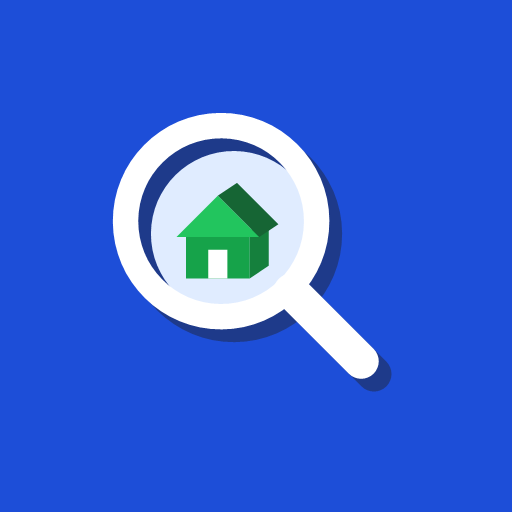
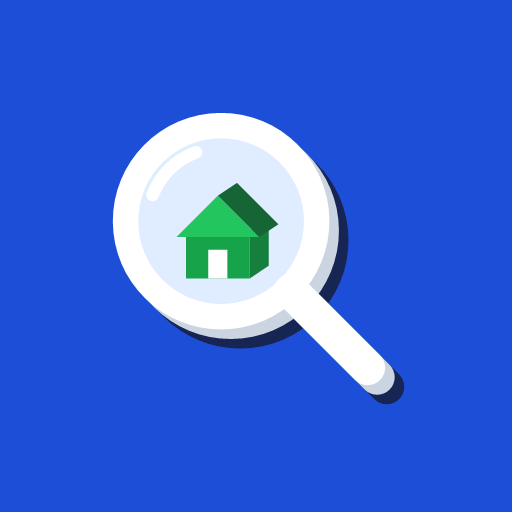
Ícone com fundo azul e lupa branca em 3D (versão 2.2)
- Ícones do aplicativo na variante C: fundo azul, lupa branca com dupla
  camada de profundidade (lateral cinza e sombra azul-escura)
- Nome LAUDAR dentro do ícone apenas na versão grande (512 px, usada na
  tela de abertura e na instalação); ícones menores só com a lupa
- Fundo da tela de abertura em azul, combinando com o ícone
- Cache do service worker v5, para os aparelhos receberem os ícones
- Teste de atualização: dados criados na 2.1 mantidos na 2.2

Backup da versão anterior: tag v2.1

diff --git a/sw.js b/sw.js
@@ -5,7 +5,7 @@
 // - Bibliotecas, ícones e manifesto: usa a cópia guardada; só busca na internet se faltar.
 //
 // Ao trocar bibliotecas ou ícones, aumente VERSAO para que os aparelhos baixem os arquivos novos.
-const VERSAO = 'v4';
+const VERSAO = 'v5';
 const CACHE = `vistoria-${VERSAO}`;
 const ARQUIVOS = [
   './',

diff --git a/index.html b/index.html
@@ -910,7 +910,7 @@ async function rotear() {
 window.addEventListener('hashchange', rotear);
 
 // ---------- Telas ----------
-const VERSAO_APP = '2.1';
+const VERSAO_APP = '2.2';
 const TITULAR = 'Felippe Alvarez';
 const ANO_INICIO = 2026;
 async function telaInicio() {
